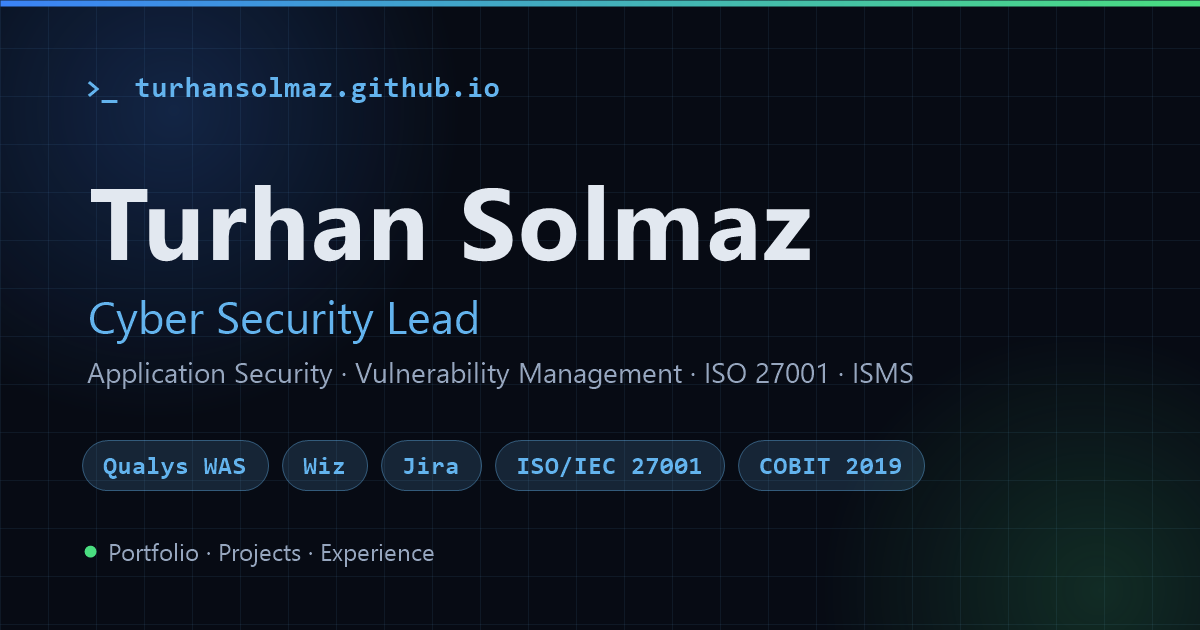
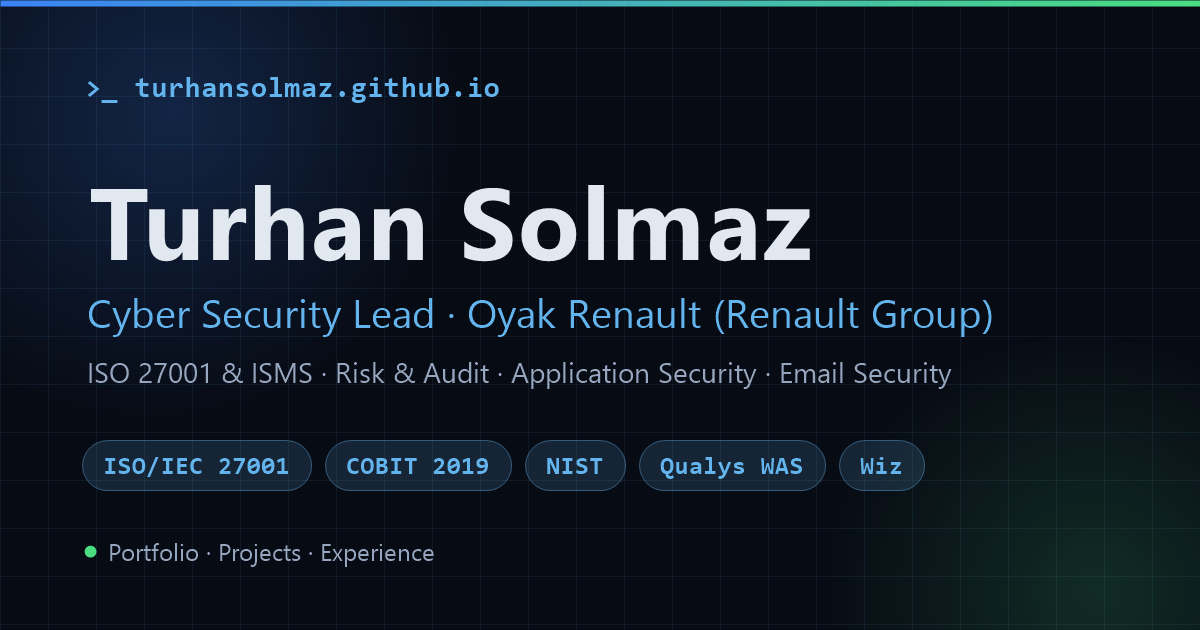
Security hardening and holistic profile copy
Security:
- Content Security Policy on portfolio and paper pages; no inline scripts or inline event handlers (GA config moved to ga.js, paper scripts to paper.js, image fallbacks to script.js)
- KaTeX upgraded 0.16.9 -> 0.16.47 with Subresource Integrity and crossorigin
- Referrer-Policy strict-origin-when-cross-origin
- Removed dead third-party logo hotlinks (Clearbit, ILAC)
- SECURITY.md with private reporting guidance

Content:
- Removed hero focus tag and AppSec/ISO-only framing; holistic profile description in title, meta, hero, About and social preview
- Skills cards equal weight; badges cover the full profile

Changed region(s): [[0.0617, 0.6937, 0.7708, 0.7841], [0.0617, 0.4825, 0.8325, 0.5429], [0.0617, 0.573, 0.8017, 0.6333]]

diff --git a/index.html b/index.html
@@ -3,8 +3,10 @@
 <head>
   <meta charset="UTF-8" />
   <meta name="viewport" content="width=device-width, initial-scale=1.0" />
-  <title>Turhan Solmaz — Cyber Security Lead · Application Security &amp; ISMS</title>
-  <meta name="description" content="Turhan Solmaz — Cyber Security Lead focused on application security and ISO 27001. Web application vulnerability management with Qualys WAS, application risk visibility with Wiz, remediation workflows in Jira, ISMS and risk management." />
+  <meta http-equiv="Content-Security-Policy" content="default-src 'self'; script-src 'self' https://*.googletagmanager.com; connect-src 'self' https://*.google-analytics.com https://*.analytics.google.com https://*.googletagmanager.com; img-src 'self' data: https://*.google-analytics.com https://*.googletagmanager.com https://www.gstatic.com https://upload.wikimedia.org https://raw.githubusercontent.com; style-src 'self' 'unsafe-inline' https://fonts.googleapis.com; font-src 'self' https://fonts.gstatic.com; object-src 'none'; base-uri 'self'; form-action 'none'; upgrade-insecure-requests" />
+  <meta name="referrer" content="strict-origin-when-cross-origin" />
+  <title>Turhan Solmaz — Cyber Security Lead</title>
+  <meta name="description" content="Turhan Solmaz — Cyber Security Lead at Oyak Renault (Renault Group). Information security professional covering ISO 27001 and ISMS, risk and audit, application security and vulnerability management, and email threat defense, with a systems administration background and degrees in IT security and law." />
   <meta name="author" content="Turhan Solmaz" />
   <meta name="robots" content="index, follow, max-image-preview:large" />
   <meta name="theme-color" content="#070b14" />
@@ -16,17 +18,17 @@
   <meta property="og:site_name" content="Turhan Solmaz" />
   <meta property="og:locale" content="en_US" />
   <meta property="og:url" content="https://turhansolmaz.github.io/" />
-  <meta property="og:title" content="Turhan Solmaz — Cyber Security Lead · Application Security &amp; ISMS" />
-  <meta property="og:description" content="Application security with Qualys WAS and Wiz, remediation through Jira, ISO 27001 and ISMS. Portfolio, projects and experience." />
+  <meta property="og:title" content="Turhan Solmaz — Cyber Security Lead" />
+  <meta property="og:description" content="Cyber Security Lead at Oyak Renault (Renault Group): ISO 27001 and ISMS, risk and audit, application security and vulnerability management, email threat defense." />
   <meta property="og:image" content="https://turhansolmaz.github.io/og-image.png" />
   <meta property="og:image:width" content="1200" />
   <meta property="og:image:height" content="630" />
-  <meta property="og:image:alt" content="Turhan Solmaz — Cyber Security Lead, Application Security and ISMS" />
+  <meta property="og:image:alt" content="Turhan Solmaz — Cyber Security Lead" />
   <meta property="profile:first_name" content="Turhan" />
   <meta property="profile:last_name" content="Solmaz" />
   <meta name="twitter:card" content="summary_large_image" />
-  <meta name="twitter:title" content="Turhan Solmaz — Cyber Security Lead · Application Security &amp; ISMS" />
-  <meta name="twitter:description" content="Application security with Qualys WAS and Wiz, remediation through Jira, ISO 27001 and ISMS." />
+  <meta name="twitter:title" content="Turhan Solmaz — Cyber Security Lead" />
+  <meta name="twitter:description" content="Cyber Security Lead at Oyak Renault (Renault Group): ISO 27001 and ISMS, risk and audit, application security, email threat defense." />
   <meta name="twitter:image" content="https://turhansolmaz.github.io/og-image.png" />
 
   <!-- Structured data for search engines -->
@@ -46,7 +48,7 @@
           { "@type": "CollegeOrUniversity", "name": "Ege University" },
           { "@type": "CollegeOrUniversity", "name": "İstanbul Altınbaş University" }
         ],
-        "knowsAbout": ["Application Security", "Vulnerability Management", "Qualys WAS", "Wiz", "Jira", "ISO/IEC 27001", "ISMS", "Risk Management", "IT Audit", "COBIT 2019", "Email Security"],
+        "knowsAbout": ["Information Security", "ISO/IEC 27001", "ISMS", "Risk Management", "IT Audit", "COBIT 2019", "Application Security", "Vulnerability Management", "Qualys WAS", "Wiz", "Email Security", "Phishing Detection", "Active Directory"],
         "sameAs": ["https://github.com/turhansolmaz", "https://www.linkedin.com/in/turhansolmaz"]
       },
       {
@@ -65,14 +67,9 @@
   <link href="https://fonts.googleapis.com/css2?family=Inter:wght@300;400;500;600;700;800&family=JetBrains+Mono:wght@400;500&display=swap" rel="stylesheet" />
   <link rel="stylesheet" href="styles.css" />
 
-  <!-- Google Analytics 4 -->
+  <!-- Google Analytics 4 (config in ga.js so no inline script is needed) -->
   <script async src="https://www.googletagmanager.com/gtag/js?id=G-DFPY0KSYVF"></script>
-  <script>
-    window.dataLayer = window.dataLayer || [];
-    function gtag(){dataLayer.push(arguments);}
-    gtag('js', new Date());
-    gtag('config', 'G-DFPY0KSYVF');
-  </script>
+  <script src="ga.js"></script>
 </head>
 <body>
 
@@ -103,16 +100,15 @@
     <div class="hero-glow hero-glow-2"></div>
 
     <div class="hero-content">
-      <div class="hero-tag"><span class="tag-dot"></span> Focus · Application Security &amp; ISO 27001</div>
       <h1 class="hero-name">Turhan <span class="accent gradient-text">Solmaz</span></h1>
       <div class="hero-typewriter">
         <span id="typewriter"></span><span class="cursor">|</span>
       </div>
       <p class="hero-desc">
-        Cyber Security &amp; Information Security professional focused on
-        <strong>application security</strong> and <strong>ISO 27001</strong> — managing
-        application vulnerabilities with Qualys WAS, reviewing application risk with Wiz
-        and driving remediation through Jira across enterprise environments.
+        Cyber Security Lead at <strong>Oyak Renault (Renault Group)</strong>, building and running
+        security end to end — from <strong>ISO 27001</strong> governance, risk and audit to
+        application vulnerability management and email threat defense — grounded in hands-on
+        infrastructure experience and a background in both information security and law.
       </p>
       <div class="hero-btns">
         <a href="#experience" class="btn btn-primary">
@@ -121,12 +117,12 @@
         <a href="#contact" class="btn btn-outline">Get In Touch</a>
       </div>
       <div class="hero-badges">
-        <span class="badge">🧩 Application Security</span>
-        <span class="badge">🔎 Qualys WAS</span>
-        <span class="badge">☁ Wiz</span>
-        <span class="badge">🛡 ISO 27001</span>
-        <span class="badge">🔐 ISMS</span>
+        <span class="badge">🛡 ISO 27001 &amp; ISMS</span>
         <span class="badge">⚠ Risk Management</span>
+        <span class="badge">📋 IT Audit</span>
+        <span class="badge">🧩 Application Security</span>
+        <span class="badge">🔎 Vulnerability Management</span>
+        <span class="badge">📧 Email Security</span>
         <span class="badge">🔍 Threat Analysis</span>
       </div>
     </div>
@@ -147,7 +143,7 @@
       <div class="about-grid">
         <div class="about-text">
           <p>
-            I'm a <strong>Cyber Security &amp; Information Security professional</strong> working at the intersection of enterprise security management and hands-on technical implementation. My work spans both strategic and operational dimensions of security.
+            I'm a <strong>Cyber Security &amp; Information Security professional</strong> working at the intersection of enterprise security governance and hands-on technical work. My path runs from <strong>systems administration</strong> (Active Directory, Exchange, Windows Server) to leading cybersecurity, and my education combines a master's in <strong>IT &amp; Internet Security</strong> with a <strong>law degree</strong> — a pairing that shapes how I approach compliance, risk and accountability.
           </p>
           <p>
             Currently leading cybersecurity activities at <strong>Oyak Renault, Renault Group</strong>, where I own the implementation and management of <strong>ISO 27001</strong> standards, conduct risk assessments, and develop organization-wide security programs.
@@ -187,9 +183,9 @@
               <p class="to">&nbsp; <span class="tk">"name"</span>: <span class="ts">"Turhan Solmaz"</span>,</p>
               <p class="to">&nbsp; <span class="tk">"title"</span>: <span class="ts">"Cyber Security Lead"</span>,</p>
               <p class="to">&nbsp; <span class="tk">"company"</span>: <span class="ts">"Renault Group"</span>,</p>
-              <p class="to">&nbsp; <span class="tk">"focus"</span>: [</p>
-              <p class="to">&nbsp;&nbsp;&nbsp; <span class="ts">"Application Security"</span>, <span class="ts">"ISO 27001"</span>,</p>
-              <p class="to">&nbsp;&nbsp;&nbsp; <span class="ts">"ISMS"</span>, <span class="ts">"Risk Management"</span></p>
+              <p class="to">&nbsp; <span class="tk">"domains"</span>: [</p>
+              <p class="to">&nbsp;&nbsp;&nbsp; <span class="ts">"ISO 27001 &amp; ISMS"</span>, <span class="ts">"Risk &amp; Audit"</span>,</p>
+              <p class="to">&nbsp;&nbsp;&nbsp; <span class="ts">"Application Security"</span>, <span class="ts">"Email Security"</span></p>
               <p class="to">&nbsp; ],</p>
               <p class="to">&nbsp; <span class="tk">"tools"</span>: [<span class="ts">"Qualys WAS"</span>, <span class="ts">"Wiz"</span>, <span class="ts">"Jira"</span>],</p>
               <p class="to">&nbsp; <span class="tk">"status"</span>: <span class="tg">"🚀"</span></p>
@@ -221,22 +217,7 @@
       </div>
       <div class="skills-grid">
 
-        <div class="skill-card featured" data-delay="0">
-          <div class="skill-card-glow"></div>
-          <span class="skill-focus">Primary focus</span>
-          <div class="skill-icon">🧩</div>
-          <h3>Application Security</h3>
-          <ul>
-            <li>Web Application Scanning — Qualys WAS</li>
-            <li>Application Vulnerability Management</li>
-            <li>Application Risk Visibility — Wiz</li>
-            <li>Coverage Across the Full Application Estate</li>
-            <li>Remediation Workflow Management — Jira</li>
-            <li>Vulnerability Closure Tracking</li>
-          </ul>
-        </div>
-
-        <div class="skill-card" data-delay="100">
+        <div class="skill-card" data-delay="0">
           <div class="skill-card-glow"></div>
           <div class="skill-icon">🛡</div>
           <h3>Security Management</h3>
@@ -250,7 +231,7 @@
           </ul>
         </div>
 
-        <div class="skill-card" data-delay="200">
+        <div class="skill-card" data-delay="100">
           <div class="skill-card-glow"></div>
           <div class="skill-icon">⚠</div>
           <h3>Threat &amp; Risk Analysis</h3>
@@ -261,6 +242,20 @@
             <li>NIST &amp; ISO/IEC 27001 Standards</li>
             <li>Security Audits</li>
             <li>Incident Management</li>
+          </ul>
+        </div>
+
+        <div class="skill-card" data-delay="200">
+          <div class="skill-card-glow"></div>
+          <div class="skill-icon">🧩</div>
+          <h3>Application Security</h3>
+          <ul>
+            <li>Web Application Scanning — Qualys WAS</li>
+            <li>Application Vulnerability Management</li>
+            <li>Application Risk Visibility — Wiz</li>
+            <li>Coverage Across the Full Application Estate</li>
+            <li>Remediation Workflow Management — Jira</li>
+            <li>Vulnerability Closure Tracking</li>
           </ul>
         </div>
 
@@ -408,7 +403,6 @@
                 <h3>Cyber Security Lead</h3>
                 <p class="tc-company">Renault Group</p>
               </div>
-              <img src="https://logo.clearbit.com/renault.com" alt="Renault" class="tc-logo" onerror="this.style.display='none'" />
             </div>
             <ul class="tc-list">
               <li>Manage <strong>application security</strong> vulnerabilities by scanning applications with <strong>Qualys WAS</strong> and following findings through to closure.</li>
@@ -571,7 +565,7 @@
         <div class="cert-card" data-delay="400">
           <div class="cert-card-glow"></div>
           <div class="cert-logo-wrap">
-            <img src="https://ilac.com/wp-content/uploads/2021/03/red-logo-ilac-150.png" alt="ILAC" class="cert-logo" onerror="this.style.display='none'" />
+            <span class="cert-logo-fallback is-visible" role="img" aria-label="ILAC">ILAC</span>
           </div>
           <div class="cert-body">
             <h4>Advanced English Course</h4>
@@ -648,13 +642,13 @@
       <div class="footer-poke-row">
         <img src="https://raw.githubusercontent.com/PokeAPI/sprites/master/sprites/pokemon/versions/generation-v/black-white/animated/94.gif"
           alt="Gengar" class="poke-sprite" style="animation-delay:1.2s"
-          onerror="this.src='https://raw.githubusercontent.com/PokeAPI/sprites/master/sprites/pokemon/94.png'" />
+          data-fallback="https://raw.githubusercontent.com/PokeAPI/sprites/master/sprites/pokemon/94.png" />
         <img src="https://raw.githubusercontent.com/PokeAPI/sprites/master/sprites/pokemon/versions/generation-v/black-white/animated/93.gif"
           alt="Haunter" class="poke-sprite" style="animation-delay:0.6s"
-          onerror="this.src='https://raw.githubusercontent.com/PokeAPI/sprites/master/sprites/pokemon/93.png'" />
+          data-fallback="https://raw.githubusercontent.com/PokeAPI/sprites/master/sprites/pokemon/93.png" />
         <img src="https://raw.githubusercontent.com/PokeAPI/sprites/master/sprites/pokemon/versions/generation-v/black-white/animated/92.gif"
           alt="Gastly" class="poke-sprite" style="animation-delay:0s"
-          onerror="this.src='https://raw.githubusercontent.com/PokeAPI/sprites/master/sprites/pokemon/92.png'" />
+          data-fallback="https://raw.githubusercontent.com/PokeAPI/sprites/master/sprites/pokemon/92.png" />
         <p>Cyber Security &amp; Information Security Professional</p>
       </div>
       <p class="footer-copy">© 2026 Turhan Solmaz · Hosted on GitHub Pages</p>

diff --git a/phishguard-paper.html b/phishguard-paper.html
@@ -3,14 +3,18 @@
 <head>
   <meta charset="UTF-8" />
   <meta name="viewport" content="width=device-width, initial-scale=1.0" />
+  <meta http-equiv="Content-Security-Policy" content="default-src 'self'; script-src 'self' https://cdn.jsdelivr.net; style-src 'self' 'unsafe-inline' https://fonts.googleapis.com https://cdn.jsdelivr.net; font-src 'self' https://fonts.gstatic.com https://cdn.jsdelivr.net; img-src 'self' data:; connect-src 'self'; object-src 'none'; base-uri 'self'; form-action 'none'; upgrade-insecure-requests" />
+  <meta name="referrer" content="strict-origin-when-cross-origin" />
   <title>PhishGuard — Research Paper</title>
+  <meta name="description" content="PhishGuard research paper by Turhan Solmaz: a client-side Chrome extension for real-time phishing email detection with 14 analysis modules (SPF/DKIM/DMARC, IP reputation, URL scanning, MIME and social engineering analysis)." />
+  <link rel="canonical" href="https://turhansolmaz.github.io/phishguard-paper.html" />
   <link rel="icon" href="phishguard-icon.png" />
   <link rel="preconnect" href="https://fonts.googleapis.com" />
   <link href="https://fonts.googleapis.com/css2?family=Inter:wght@400;500;600;700&family=Lora:ital,wght@0,400;0,600;1,400&family=JetBrains+Mono:wght@400;500&display=swap" rel="stylesheet" />
-  <link rel="stylesheet" href="https://cdn.jsdelivr.net/npm/katex@0.16.9/dist/katex.min.css" />
-  <script defer src="https://cdn.jsdelivr.net/npm/katex@0.16.9/dist/katex.min.js"></script>
-  <script defer src="https://cdn.jsdelivr.net/npm/katex@0.16.9/dist/contrib/auto-render.min.js"
-    onload="renderMathInElement(document.body, {delimiters: [{left:'$$',right:'$$',display:true},{left:'$',right:'$',display:false}]})"></script>
+  <link rel="stylesheet" href="https://cdn.jsdelivr.net/npm/katex@0.16.47/dist/katex.min.css" integrity="sha384-nH0MfJ44wi1dd7w6jinlyBgljjS8EJAh2JBoRad8a3VDw2K69vfaaqm4WnR+gXtA" crossorigin="anonymous" />
+  <script defer src="https://cdn.jsdelivr.net/npm/katex@0.16.47/dist/katex.min.js" integrity="sha384-CwjPRVHTvLiMBFjEoij+QZViMV5rhTOIp7CJzl24JEqpRDA1sJFHVXXLURktbYYp" crossorigin="anonymous"></script>
+  <script defer src="https://cdn.jsdelivr.net/npm/katex@0.16.47/dist/contrib/auto-render.min.js" integrity="sha384-bjyGPfbij8/NDKJhSGZNP/khQVgtHUE5exjm4Ydllo42FwIgYsdLO2lXGmRBf5Mz" crossorigin="anonymous"></script>
+  <script defer src="paper.js"></script>
   <style>
     *, *::before, *::after { box-sizing: border-box; margin: 0; padding: 0; }
 
@@ -815,21 +819,5 @@
   </main>
 </div>
 
-<script>
-  // Active TOC highlight on scroll
-  const sections = document.querySelectorAll('section[id], div.abstract-box');
-  const links    = document.querySelectorAll('.toc-list a');
-  const observer = new IntersectionObserver(entries => {
-    entries.forEach(e => {
-      if (e.isIntersecting) {
-        links.forEach(l => l.classList.remove('active'));
-        const id = e.target.id || e.target.closest('section')?.id;
-        const active = document.querySelector(`.toc-list a[href="#${id}"]`);
-        if (active) active.classList.add('active');
-      }
-    });
-  }, { rootMargin: '-20% 0px -70% 0px' });
-  document.querySelectorAll('section[id]').forEach(s => observer.observe(s));
-</script>
 </body>
 </html>

diff --git a/script.js b/script.js
@@ -243,18 +243,20 @@ document.querySelectorAll('.stat').forEach(el => statObserver.observe(el));
   else draw();
 })();
 
-/* ── Cert logo fallback — hide broken <img> cleanly ───────── */
-document.querySelectorAll('.cert-logo').forEach(img => {
-  img.addEventListener('error', () => {
-    img.style.display = 'none';
-    const fallback = img.closest('.cert-logo-wrap')?.querySelector('.cert-logo-fallback');
-    if (fallback) fallback.style.display = 'flex';
-  });
-});
-
-/* ── Company logo fallback ─────────────────────────────────── */
-document.querySelectorAll('.tc-logo').forEach(img => {
-  img.addEventListener('error', () => { img.style.display = 'none'; });
+/* ── Image fallbacks (no inline handlers, CSP-friendly) ────── */
+function handleImageError(img) {
+  if (img.dataset.fallback && img.src !== img.dataset.fallback) {
+    img.src = img.dataset.fallback;
+    return;
+  }
+  img.style.display = 'none';
+  const fallback = img.closest('.cert-logo-wrap')?.querySelector('.cert-logo-fallback');
+  if (fallback) fallback.style.display = 'flex';
+}
+document.querySelectorAll('img.cert-logo, img.tc-logo, img[data-fallback]').forEach(img => {
+  img.addEventListener('error', () => handleImageError(img));
+  /* Images that already failed before this script ran */
+  if (img.complete && img.naturalWidth === 0 && img.getAttribute('src')) handleImageError(img);
 });
 
 /* ── Scroll progress bar ───────────────────────────────────── */

diff --git a/paper.js b/paper.js
@@ -1,0 +1,26 @@
+/* PhishGuard paper — math rendering and table-of-contents highlight.
+   Kept in a file (no inline scripts) so the Content Security Policy can forbid inline code.
+   Loaded with "defer" after KaTeX, so renderMathInElement is available here. */
+(function () {
+  if (typeof window.renderMathInElement === 'function') {
+    window.renderMathInElement(document.body, {
+      delimiters: [
+        { left: '$$', right: '$$', display: true },
+        { left: '$', right: '$', display: false }
+      ]
+    });
+  }
+
+  const links = document.querySelectorAll('.toc-list a');
+  const observer = new IntersectionObserver(entries => {
+    entries.forEach(entry => {
+      if (!entry.isIntersecting) return;
+      links.forEach(link => link.classList.remove('active'));
+      const id = entry.target.id || entry.target.closest('section')?.id;
+      if (!id) return;
+      const active = document.querySelector(`.toc-list a[href="#${CSS.escape(id)}"]`);
+      if (active) active.classList.add('active');
+    });
+  }, { rootMargin: '-20% 0px -70% 0px' });
+  document.querySelectorAll('section[id]').forEach(section => observer.observe(section));
+})();

diff --git a/styles.css b/styles.css
@@ -419,6 +419,7 @@ section:nth-child(even) { background: var(--bg2); }
   display: none; align-items: center; justify-content: center;
   width: 100%; height: 100%;
 }
+.cert-logo-fallback.is-visible { display: flex; color: #c8102e; letter-spacing: 0.5px; }
 .cert-body { flex: 1; }
 .cert-card h4 { font-size: 14px; font-weight: 700; color: var(--text); margin-bottom: 6px; line-height: 1.4; }
 .cert-issuer { font-size: 13px; color: var(--accent); font-weight: 500; margin-bottom: 4px; }

diff --git a/ga.js b/ga.js
@@ -1,0 +1,5 @@
+/* Google Analytics 4 configuration — kept in a file so the Content Security Policy can forbid inline scripts. */
+window.dataLayer = window.dataLayer || [];
+function gtag() { window.dataLayer.push(arguments); }
+gtag('js', new Date());
+gtag('config', 'G-DFPY0KSYVF');

diff --git a/SECURITY.md b/SECURITY.md
@@ -1,0 +1,20 @@
+# Security Policy
+
+This repository hosts a static personal portfolio (GitHub Pages) and the COBIT Workshop learning site under `/cobit/`. There is no server-side code, database, login or form submission.
+
+## Reporting a vulnerability
+
+If you find a security issue, please report it privately:
+
+- Preferred: GitHub **Security → Report a vulnerability** (private vulnerability reporting) on this repository
+- Or email: turhansolmaz@hotmail.com
+
+Please include the affected URL, steps to reproduce and the potential impact. Do not run automated scans that could degrade service, and do not access data that is not yours. I aim to acknowledge reports within 72 hours.
+
+## Security measures in place
+
+- Content Security Policy on every page; no inline scripts or inline event handlers
+- Third-party libraries pinned to exact versions with Subresource Integrity (SRI)
+- `strict-origin-when-cross-origin` referrer policy and `rel="noopener"` on external links
+- HTTPS enforced by GitHub Pages
+- GitHub secret scanning and code scanning (CodeQL) enabled
